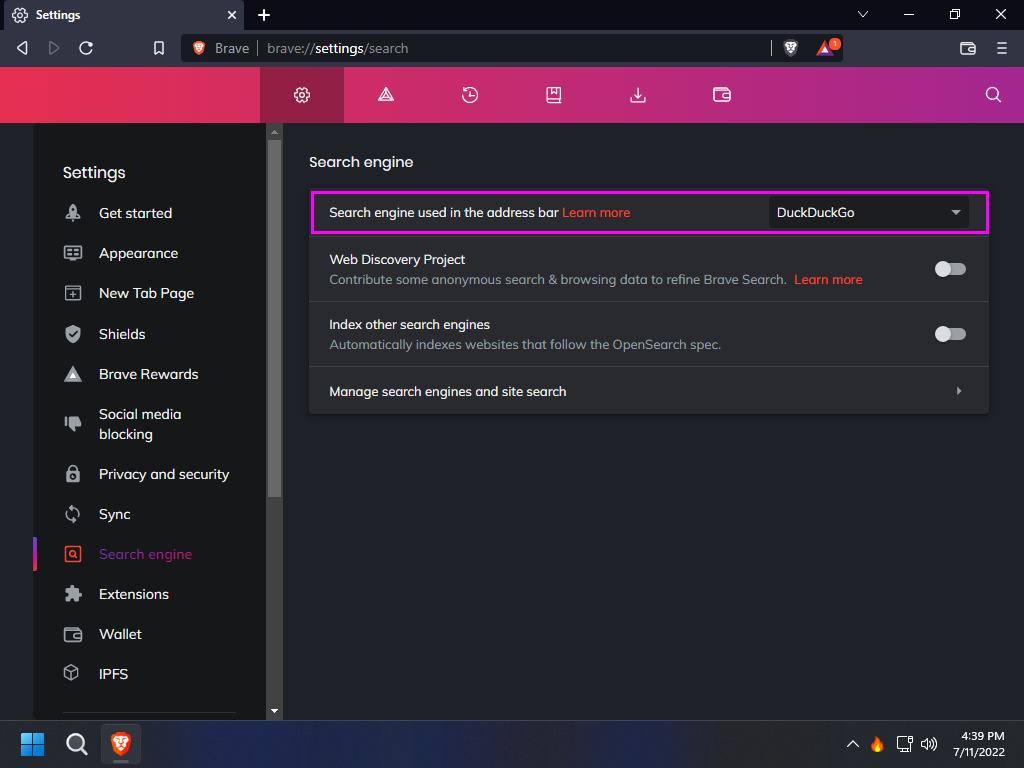
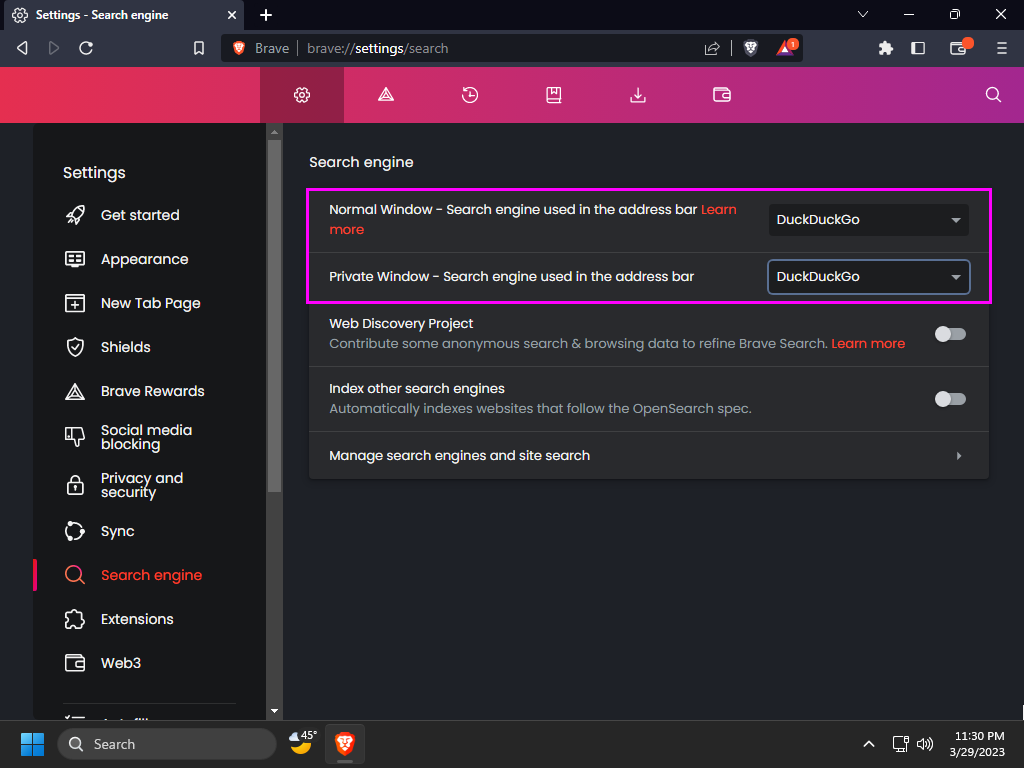
Windows 11 Build 22621.1485
* Add: Chocolatey: MSEdgeRedirect has been added to default software installed
* Add: README.md: Everything, CCleaner & MSEdgeRedirect sections have been added
* Modify: Version updated to 1.2.4
* Modify: README.md: Windows build updated, GitHub Workflow Shields.io updated
* Modify: README.md: Brave section has been updated to reflect newer versions
* Modify: README.md: simplewall section has been expanded slightly
* Fix: Copyright dates updated
* Fix: Shrink the Search button back down on the Start Menu

diff --git a/README.md b/README.md
@@ -1,8 +1,8 @@
-# Windows 11 Tweaks - Build 22621.819
+# Windows 11 Tweaks - Build 22621.1485
 
 ![LOGO](README_media/LOGO.png)
 
-[![Contributor Covenant](https://img.shields.io/badge/contributor%20covenant-2.1-4baaaa.svg)](CODE_OF_CONDUCT.md) &nbsp; [![Semantic Versioning](https://img.shields.io/badge/semantic%20versioning-1.2.3-333333.svg)](https://semver.org) &nbsp; [![GitHub](https://img.shields.io/github/license/kyaulabs/win11tweak)](LICENSE) &nbsp; [![Gitleaks](https://img.shields.io/badge/protected%20by-gitleaks-blue)](https://github.com/zricethezav/gitleaks) &nbsp; [![CI](https://img.shields.io/github/workflow/status/kyaulabs/win11tweak/CI)](https://github.com/kyaulabs/win11tweak/actions)
+[![Contributor Covenant](https://img.shields.io/badge/contributor%20covenant-2.1-4baaaa.svg)](CODE_OF_CONDUCT.md) &nbsp; [![Semantic Versioning](https://img.shields.io/badge/semantic%20versioning-1.2.4-333333.svg)](https://semver.org) &nbsp; [![GitHub](https://img.shields.io/github/license/kyaulabs/win11tweak)](LICENSE) &nbsp; [![Gitleaks](https://img.shields.io/badge/protected%20by-gitleaks-blue)](https://github.com/zricethezav/gitleaks) &nbsp; [![CI](https://img.shields.io/github/actions/workflow/status/kyaulabs/win11tweak/psscriptanalyzer.yml)](https://github.com/kyaulabs/win11tweak/actions)
 
 ## Disclaimer
 
@@ -31,6 +31,9 @@ damage that may ensue.
   * [Brave](#brave)
   * [Firewall](#firewall)
   * [Chocolatey](#chocolatey)
+  * [Everything](#everything)
+  * [CCleaner](#ccleaner)
+  * [MSEdgeRedirect](#msedgeredirect)
 * [Attribution & References](#attribution--references)
 
 ## Introduction
@@ -221,7 +224,7 @@ When asked if you want an extra layer of protection, select `NO THANKS`.
 
 ![AntiVirus_03](README_media/AntiVirus_03.png)
 
-Once installation is finished, feel free to delete the `Adaware.exe` on your desktop.  If by chance MSEdge pops up with incoherent text, go to the Task Manager by right clicking on the Start Menu and selecting `Task Manager`. Find `Microsoft Edge` and expand it to find `Browser`, right-click on this and choose `End task`.
+Once installation is finished, feel free to delete the `Adaware.exe` on your desktop.  If by chance MSEdge pops up with incoherent text, go to the Task Manager by right-clicking on the Start Menu and selecting `Task Manager`. Find `Microsoft Edge` and expand it to find `Browser`, right-click on this and choose `End task`.
 
 ![AntiVirus_04](README_media/AntiVirus_04.png)
 
@@ -334,9 +337,9 @@ Naturally this can be replaced with a browser of your choosing, I would recommen
 a try if you have never used it.
 ```
 
-Next, install the Brave web browser with the `BraveSetup.exe` on the desktop which has been pre-downloaded for you. Once open, feel free to click `Skip welcome tour` in the bottom-left corner.
+Next, install the Brave web browser with the `BraveSetup.exe` on the desktop which has been pre-downloaded for you. Once open, feel free to click `Set Brave as default browser`, then `Skip` importing settings and finally uncheck both telemetry sharing options and select `Finish`.
 
-Next scroll down a little to bring up the Brave News banner and select `No thanks`. The select the 3dots menu for `Brave Rewards` and select `Hide Brave Rewards`.
+Next scroll down a little to bring up the Brave News banner and select `No thanks`. Then select the 3dots menu for `Brave Rewards` and select `Hide Brave Rewards`.
 
 Navigate to the hamburger menu in the upper-right and select `Extensions`. In the center you should see `Find extensions and themes in the Web Store`, click on `Web Store` to continue, this should launch in a separate tab.
 
@@ -350,7 +353,7 @@ Navigate to the hamburger menu again and select Settings. Under `Appearance` set
 
 ![Brave_01a](README_media/Brave_01a.png)
 
-Then deselect `Show top sites in autocomplete suggestions` and select `Always show full URLs`.
+Then select `Always show full URLs` and deselect `Top sites` under `Show autocomplete suggestions in address bar`.
 
 ![Brave_01b](README_media/Brave_01b.png)
 
@@ -366,7 +369,7 @@ Under `Privacy and security` deselect everything.
 
 ![Brave_04](README_media/Brave_04.png)
 
-Under `Search engine` swap the `Search engine used in the address bar` to the one of your choice, I recommend `DuckDuckGo` personally.
+Under `Search engine` swap the `Search engine used in the address bar` for `Normal Window` and `Private Window` to the one of your choice, I recommend `DuckDuckGo` personally.
 
 ![Brave_05](README_media/Brave_05.png)
 
@@ -402,9 +405,13 @@ In the `Settings` menu enable `Load on system startup`,  `Start minimized`, and 
 
 ![Simplewall_02](README_media/Simplewall_02.png)
 
-Click `Enable filters` in the toolbar, making sure to uncheck `Disable Windows Firewall` then again clicking `Enable filters` in the popup dialog in order to permanently activate simplewall.
+In the `Blocklist` menu enable `Microsoft update` by selecting `Allow` in the sub-menu.
 
 ![Simplewall_03](README_media/Simplewall_03.png)
+
+Click `Enable filters` in the toolbar, making sure to uncheck `Disable Windows Firewall` then again clicking `Enable filters` in the popup dialog in order to permanently activate simplewall.
+
+![Simplewall_04](README_media/Simplewall_04.png)
 
 ```
 📌 NOTE
@@ -491,9 +498,90 @@ Scroll down near the bottom and enable the option `Prevent Usage of Update All B
 
 ![Choco_03](README_media/Choco_04.png)
 
-When updates are detected you will see a new version listed to the right of current versions highlighted with the color red. To update, simple right click the application and choose `Update`.
+When updates are detected you will see a new version listed to the right of current versions highlighted with the color red. To update, simple right-click the application and choose `Update`.
 
 ![Choco_04](README_media/Choco_05.png)
+
+### Everything
+
+Everything is a modern replacement for Windows Search with extended functionality. However, always running this in the background is a waste of resources. Open the System Tray and right-click on the Everything icon and select `Options`.
+
+![Everything_01](README_media/Everything_01.png)
+
+Disable the settings `Start Everything on system startup` and `Everything Service` while enabling `Run as administrator` and then select `OK` at the bottom of the window. Select `Yes` for the UAC popup, finally return to the Everything System Tray icon and select `Exit`.
+
+![Everything_02](README_media/Everything_02.png)
+
+### CCleaner
+
+Open `CCEnhancer` under `Utilities` in the Start Menu. Select `Yes` for the UAC popup, and `Allow` for the simplewall popup.
+
+Select `Settings` at the bottom of the window.
+
+![CCleaner_01](README_media/CCleaner_01.png)
+
+Enable the setting `Trim definition file to improve performance` and then select `Save and Close`.
+
+![CCleaner_02](README_media/CCleaner_02.png)
+
+Select `Download Latest`, when asked to run CCleaner select `Yes`. Select `Allow` on the simplewall popup for CCleaner.
+
+![CCleaner_03](README_media/CCleaner_03.png)
+
+Since this is the first time CCleaner has run, select `Continue` and finally `Start CCleaner`.
+
+Navigate down to `Options` and then the sub-tab `Settings`. Change `CCleaner Home Screen` to `Custom Clean` and disable the setting `Add "Run CCleaner" option to Recycle Bin context menu`.
+
+![CCleaner_04](README_media/CCleaner_04.png)
+
+Navigate to the `Smart Cleaning` sub-tab and disable all options, selecting `Yes` for the `Are you sure?` popup.
+
+![CCleaner_05](README_media/CCleaner_05.png)
+
+Navigate to the `Privacy` sub-tab and disable all options yet again.
+
+![CCleaner_06](README_media/CCleaner_06.png)
+
+Navigate to the `Custom Clean` tab and select `Analyze`. Upon completion of the analysis, select `Run Cleaner`.
+
+```
+📌 NOTE
+You might receive a warning stating that Microsoft OneDrive or some other application needs to be closed in order for CCleaner to continue. Go ahead and select Yes to the popup.
+```
+
+![CCleaner_07](README_media/CCleaner_07.png)
+
+Upon completion you should see `Cleaning Complete` next to a green checkbox.
+
+Navigate to the `Registry` tab and select `Scan for Issues`. Once it has found all the issues, select `Review selected Issues...`.
+
+![CCleaner_08](README_media/CCleaner_08.png)
+
+CCleaner will ask if you want to make a back up of the registry before making changes, since we just installed a fresh copy of Windows this is not necessary, select `No`. Once the fix window comes up select `Fix All Selected Issues` and then `Close`.
+
+![CCleaner_09](README_media/CCleaner_09.png)
+
+Run this process again repeatedly until you keep receiving the same few results left over or a completely clean slate (sometimes this is not possible).
+
+Finally close out of CCleaner.
+
+### MSEdgeRedirect
+
+Open `MSEdgeRedirect` under `Utilities` in the Start Menu. Select `Allow` for the simplewall popup.
+
+Change the settings `Bing Search`, `Bing Images` and `MSN News (ALPHA)` to the search engine and news provider of choice, I will be using `DuckDuckGo` for them all. Then change the `MSN Weather` setting to your weather provider of choice, I will be using `AccuWeather`.
+
+Enable the `PDF Viewer` setting then pull down the drop-down and select `Custom`, this will open a file dialog box, navigate to `%ProgramFiles%\SumatraPDF\SumatraPDF.exe` and select `Open`.
+
+Close the program by selecting `Save`.
+
+![MSEdgeRedirect_01](README_media/MSEdgeRedirect_01.png)
+
+Hover over the weather widget in the taskbar to open the News/Weather Widget window selecting the Settings icon in the upper right (it looks like a blank avatar). Disable the setting `Open Widgets board on hover`, this will change the icon to require a click in order to show the widget.
+
+![MSEdgeRedirect_02](README_media/MSEdgeRedirect_02.png)
+
+Reboot the machine to continue.
 
 ## Attribution
 
